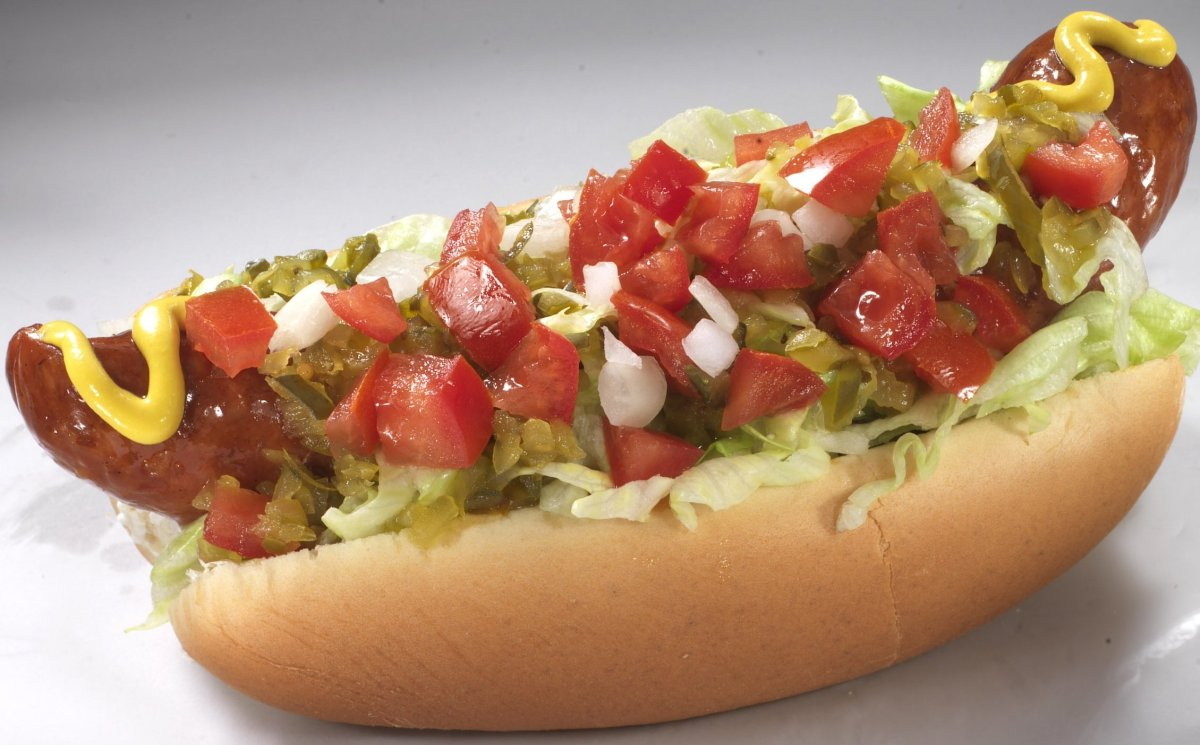
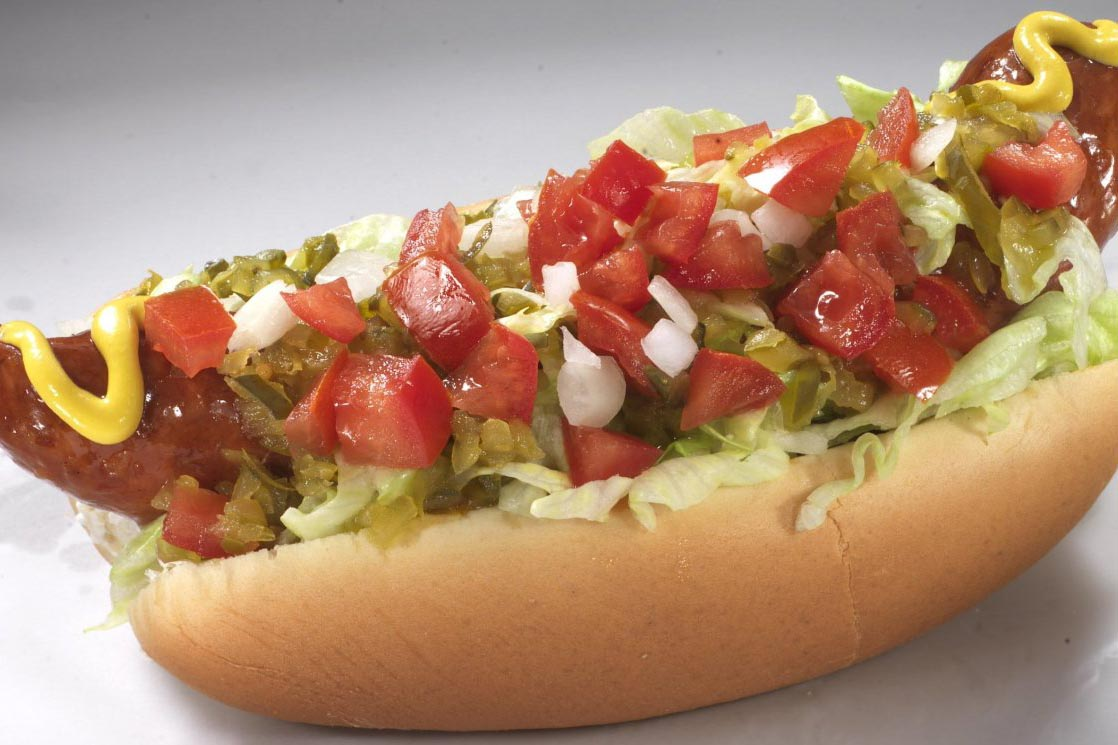
Add resized hotdog images

diff --git a/hotdogs/index.html b/hotdogs/index.html
@@ -1,7 +1,7 @@
 <!DOCTYPE html>
 <html>
 <head>
-  <title>Clone Caviar Project</title>
+  <title>Lenny's Franks</title>
   <link rel="stylesheet" href="/hotdogs/styles.css">
   <script
     src="https://code.jquery.com/jquery-3.2.1.js"
@@ -51,82 +51,83 @@
         <div class="main-menu-items">
           <div class="menu-item">
             <div class="menu-item-imgholder">
-              <img src="https://s-i.huffpost.com/gadgets/slideshows/316613/slide_316613_2899251_free.jpg" alt="corn dog" class="menu-item-img">
+              <img src="images/corndog.jpg" alt="corn dog" class="menu-item-img">
               <div class="menu-item-hovertext">Add to Cart</div>
             </div><!-- menu-item-imgholder -->
 
             <div class="menu-item-name">Popular Item: Corn Fritter Dog</div>
             <div class="menu-item-description">Lenny's exclusive. A delicious dog topped with corn fritters on a bed of sweet potato mash. Green onions and spicy mayo.</div>
-            <div class="menu-item-price">11.75</div>
+            <div class="menu-item-price">9.75</div>
           </div><!-- menu-item -->
 
           <div class="menu-item">
             <div class="menu-item-imgholder">
-              <img src="https://s-i.huffpost.com/gadgets/slideshows/316613/slide_316613_2899256_free.jpg" alt="kraut dog" class="menu-item-img">
+              <img src="images/krautdog.jpg" alt="kraut dog" class="menu-item-img">
             <div class="menu-item-hovertext">Add to Cart</div>
             </div><!-- menu-item-imgholder -->
 
             <div class="menu-item-name">Popular Item: White Bread Special</div>
-            <div class="menu-item-description">Lenny's exclusive. A charred original dog nested in white bread topped with homemade sourkruat. Extra mustard.</div>
-            <div class="menu-item-price">12.90</div>
+            <div class="menu-item-description">Lenny's exclusive. A charred original dog nested in white bread topped with homemade sour kruat. Extra mustard.</div>
+            <div class="menu-item-price">7.90</div>
           </div><!-- menu-item -->
 
           <div class="menu-item">
-        <div class="menu-item-imgholder">
-          <img src="https://img.trycaviar.com/kYy7CeXogeB1i25dCw0vDjNEIOU=/350x233/https://s3.amazonaws.com/trycaviar.com/offers/151/9049.jpg" alt="mexican mac" class="menu-item-img">
-          <div class="menu-item-hovertext">Add to Cart</div>
-        </div><!-- menu-item-imgholder -->
+            <div class="menu-item-imgholder">
+              <img src="images/smothereddog.jpg" alt="Smothered Dog" class="menu-item-img">
+              <div class="menu-item-hovertext">Add to Cart</div>
+            </div><!-- menu-item-imgholder -->
 
-        <div class="menu-item-name">Popular Menu: Mexican Mac</div>
-        <div class="menu-item-description">Niman Ranch chorizo, jack cheese, homemade chipotle adobo sauce, and cilantro, served with a wedge of lime.</div>
-        <div class="menu-item-price">13.85</div>
+            <div class="menu-item-name">Popular Item: Smothered Dog</div>
+            <div class="menu-item-description">Back by Popular Demand! The smothered dog features spicy hot mustard, homemade mayo stuffed between a delicious all pork dog and asian style baked roll.</div>
+            <div class="menu-item-price">5.85</div>
           </div><!-- menu-item -->
 
           <div class="menu-item">
-        <div class="menu-item-imgholder">
-          <img src="https://img.trycaviar.com/m5lLB-JY9wQWWTx7VPUCIXrWjpM=/350x233/https://s3.amazonaws.com/trycaviar.com/offers/151/9042.jpg" alt="bacon mac" class="menu-item-img">
-          <div class="menu-item-hovertext">Add to Cart</div>
-        </div><!-- menu-item-imgholder -->
+            <div class="menu-item-imgholder">
+              <img src="images/pototadog.jpg" alt="Potatoe Covered Hot Dog" class="menu-item-img">
+              <div class="menu-item-hovertext">Add to Cart</div>
+            </div><!-- menu-item-imgholder -->
 
-        <div class="menu-item-name">Popular Menu: Smokey Bacon Mac</div>
-        <div class="menu-item-description">Rich and bold with smoked cheddar, jack cheese, and bacon.</div>
-        <div class="menu-item-price">13.85</div>
+            <div class="menu-item-name">Popular Item: Potato Dog</div>
+            <div class="menu-item-description">Potatoes roasted in backon fat top this spicy hot link on a bed of sweet secret sauce.</div>
+            <div class="menu-item-price">9.85</div>
           </div><!-- menu-item -->
         </div><!-- main-menu-items -->
 
-        <div class="main-menu-title">SECRET MENU</div>
+        <div class="main-menu-title">LUNCH MENU</div>
         <div class="main-menu-items">
           <div class="menu-item">
-          <div class="menu-item-imgholder">
-            <img src="https://img.trycaviar.com/TJBuzy6bs7K-nZ80hrh2OT7Hr8Y=/350x233/https://s3.amazonaws.com/trycaviar.com/offers/151/156132-201608191857.jpg" alt="breakfast mac" class="menu-item-img">
-          <div class="menu-item-hovertext">Add to Cart</div>
-          </div><!-- menu-item-imgholder -->
+            <div class="menu-item-imgholder">
+              <img src="images/classicdog.jpg" alt="Classic Hot Dog" class="menu-item-img">
+            <div class="menu-item-hovertext">Add to Cart</div>
+            </div><!-- menu-item-imgholder -->
 
-          <div class="menu-item-name">Secret Menu: Breakfast Mac</div>
-          <div class="menu-item-description">Caviar exclusive. Breakfast Mac: classic mac with bacon and egg with side of a biscuit.</div>
-          <div class="menu-item-price">19.45</div>
+            <div class="menu-item-name">Lunch Menu: Classic Lenny Dog</div>
+            <div class="menu-item-description">The original Lenny Dog! Topped with all the fixings</div>
+            <div class="menu-item-price">4.80</div>
           </div><!-- menu-item -->
 
           <div class="menu-item">
-          <div class="menu-item-imgholder">
-            <img src="https://img.trycaviar.com/F63v80PwCEFihW5E_OPszkmnzvw=/350x233/https://s3.amazonaws.com/trycaviar.com/offers/151/156336-201608191857.jpg" alt="eggy bacon sprouts" class="menu-item-img">
-          <div class="menu-item-hovertext">Add to Cart</div>
-          </div><!-- menu-item-imgholder -->
+            <div class="menu-item-imgholder">
+              <img src="images/chillidog.jpg" alt="Hot Chili Dog" class="menu-item-img">
+            <div class="menu-item-hovertext">Add to Cart</div>
+            </div><!-- menu-item-imgholder -->
 
-          <div class="menu-item-name">Secret Menu: Eggy Bacon Sprouts</div>
-          <div class="menu-item-description">Caviar Exclusive. Roasted brussels sprouts with bacon, topped with a fried egg.</div>
-          <div class="menu-item-price">9.80</div>
+            <div class="menu-item-name">Lunch Menu: Chili Dog</div>
+            <div class="menu-item-description">It doesn't get any hotter than a Lenny Chili Dog! Spicy peppers, spicy pickles and even spicy tomatoes are ready to start a flavor fire in your mouth.</div>
+            <div class="menu-item-price">6.45</div>
           </div><!-- menu-item -->
 
-          <div class="menu-item">
-          <div class="menu-item-imgholder">
-            <img src="https://img.trycaviar.com/moE-oRIOGim0-0uFHb5AI-xB7PU=/350x233/https://s3.amazonaws.com/trycaviar.com/offers/151/156133-201608191857.jpg" alt="vegetarian eggy sprouts" class="menu-item-img">
-          <div class="menu-item-hovertext">Add to Cart</div>
-          </div><!-- menu-item-imgholder -->
 
-          <div class="menu-item-name">Secret Menu: Eggy Bacon Sprouts</div>
-          <div class="menu-item-description">Caviar exclusive. Roasted brussels sprouts, topped with a fried egg.</div>
-          <div class="menu-item-price">8.60</div>
+          <div class="menu-item">
+            <div class="menu-item-imgholder">
+              <img src="images/cabbagedog.jpg" alt="Cabbage Dog" class="menu-item-img">
+            <div class="menu-item-hovertext">Add to Cart</div>
+            </div><!-- menu-item-imgholder -->
+
+            <div class="menu-item-name">Lunch Menu: Cabbage Dog</div>
+            <div class="menu-item-description">A Lenny exclusive! Homemade marinated thinly sliced cabbage makes for a tangy and crunchy topper to a all beef dog. Served with a side of fries.</div>
+            <div class="menu-item-price">6.60</div>
           </div><!-- menu-item -->
         </div><!-- main-menu-items -->
       </div><!-- main-menu -->

diff --git a/main.js b/main.js
@@ -5,9 +5,6 @@ $(document).ready(function(){
     $(event.target).addClass('main-projects-project-thumb-dark');
     $('.main-projects-project-button').addClass('main-projects-project-button-show');
 
-    // if ($('.main-projects-project-button:hover')){
-    //   console.log('button hovered');
-    // }
 
   }, function(event){
     $(event.target).removeClass('main-projects-project-thumb-dark');

diff --git a/hotdogs/styles.css b/hotdogs/styles.css
@@ -252,7 +252,7 @@ body{
   flex-basis: 13.9em;
   min-width: 900px;
   background-color: grey;
-  background-image: url('https://s-i.huffpost.com/gadgets/slideshows/316613/slide_316613_2899137_free.jpg');
+  background-image: url('images/twodogs.jpg');
   background-size: 100% auto;
   background-position: center;
   background-repeat: no-repeat;
